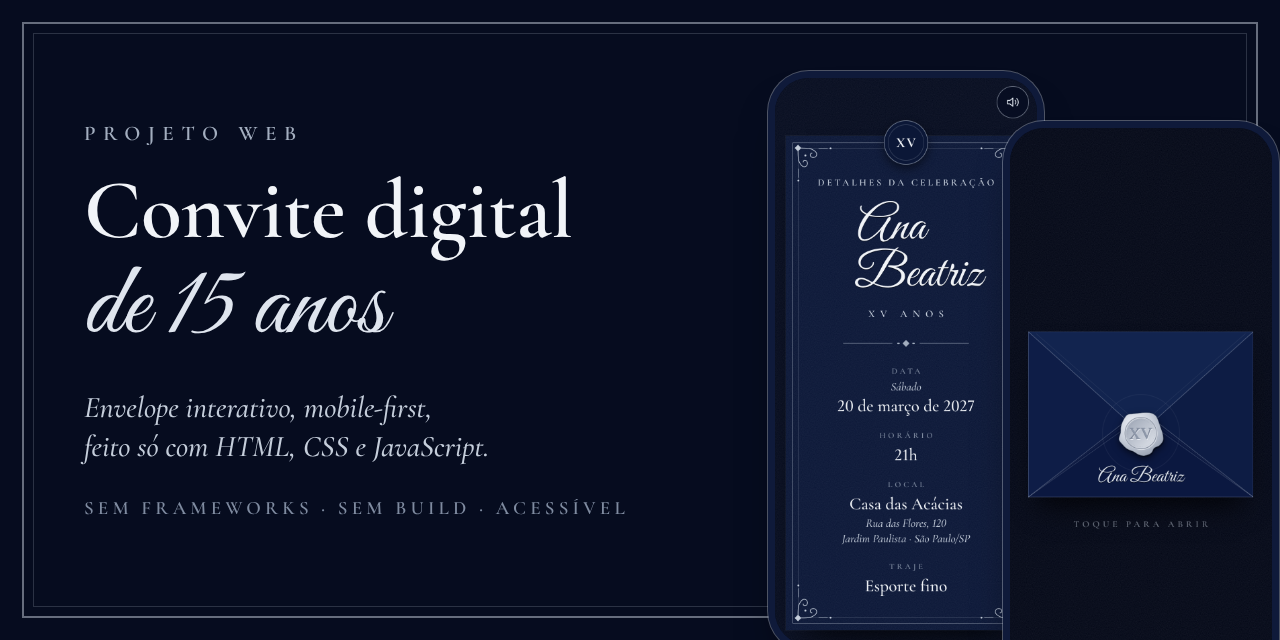
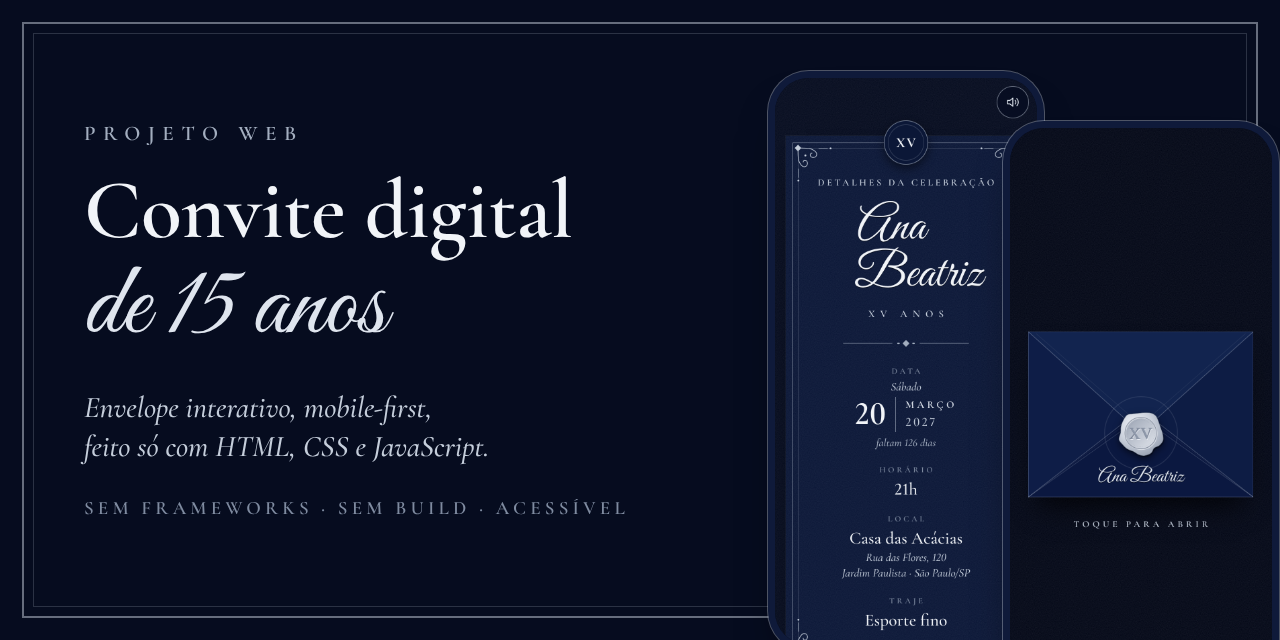
Documentação: README e imagens com Waze, nova data e contagem
Claude-Session: https://claude.ai/code/session_01HrQzDJ48b2GaZGgzArpSWo

Changed region(s): [[0.6562, 0.625, 0.75, 0.9375], [0.5938, 0.9375, 0.7812, 1.0]]

diff --git a/README.md b/README.md
@@ -31,9 +31,9 @@ Um convite pensado para ser **enviado por link no WhatsApp**. O convidado abre n
 
 - **Envelope animado em CSS 3D**: o lacre rachado cai em duas metades, a aba gira, o cartão sobe (~2 s).
 - **Confirmar presença** pelo WhatsApp (`wa.me`) com mensagem pronta, nome e, se permitido, quantidade de pessoas.
-- **Como chegar** (Google Maps) e **adicionar à agenda**: arquivo `.ics` com lembrete 1 dia antes e link do Google Agenda.
+- **Como chegar** pelo Google Maps ou pelo **Waze**, com botão de **copiar endereço**, e **adicionar à agenda**: arquivo `.ics` com lembrete 1 dia antes e link do Google Agenda.
 - **Sugestão de presentes** em grupos, **sugerir música** e **enviar recado**, ambos pelo WhatsApp.
-- **Manual do Convidado** e prazo de confirmação.
+- **Manual do Convidado** (com amostras das cores a evitar), prazo de confirmação e **contagem regressiva** discreta.
 - **Música de fundo** com botão de silenciar (começa só depois do toque, como exigem os navegadores).
 - **Tudo configurável** em um único objeto `CONFIG` no topo de [`assets/js/app.js`](assets/js/app.js).
 
@@ -45,6 +45,7 @@ Um convite pensado para ser **enviado por link no WhatsApp**. O convidado abre n
 | Lacre que quebra | Uma arte SVG usada em duas metades recortadas por um mesmo `clip-path` em zigue-zague; lascas criadas em JS com variáveis CSS (`--dx`, `--dy`, `--r`). |
 | Compatibilidade com iPhones antigos | Sem `aspect-ratio` nem *container queries*: proporção por "truque do padding" e medidas por uma variável CSS (`--env-w`). |
 | Agenda em qualquer fuso | `.ics` (RFC 5545) escrito à mão: horário em UTC, escape de vírgulas e quebras, dobra de linhas em 75 **bytes** UTF-8 sem cortar acentos, `VALARM` de 1 dia. |
+| Contagem certa em qualquer fuso | Os dias são contados entre a data de hoje **no fuso do evento** (UTC-3) e a data da festa, então um celular em outro fuso não erra o dia. Depois da festa, a linha vira um agradecimento. |
 | Mensagens do WhatsApp | Modelos com `{chaves}`; linhas cujo campo ficou vazio somem sozinhas. Trava contra toque duplo e link de reserva se o app não abrir. |
 | Teclado do celular | Janelas ajustadas por `visualViewport` (iOS e Android), campos com fonte ≥ 16 px (evita zoom do iOS) e `:active` habilitado no Safari do iPhone (truque do `touchstart`). |
 | Acessibilidade | Foco devolvido ao botão de origem, `Esc` fecha, `inert` no fundo, alvos ≥ 48 px, `prefers-reduced-motion`, rótulos e contraste. Lighthouse: **Acessibilidade 100 · Boas práticas 100**. |
@@ -85,6 +86,7 @@ const CONFIG = {
   local:  { nome: "Casa das Acácias", rua: "Rua das Flores, 120", bairro: "Jardim Paulista", cidade: "São Paulo/SP" },
   whatsapp: "11999990000",                   // DDD + número
   rsvp: { maxPessoas: 1, prazo: "2027-03-10" },   // 1 = convite individual
+  contagem: { mostrar: true, varios: "faltam {n} dias" },
   // presentes, manual, mensagens do WhatsApp, textos da interface...
 };
 ```
@@ -106,7 +108,7 @@ python3 -m http.server 8000
 
 ## Qualidade
 
-Verificado com Playwright (Chromium) em telas de 320 a 844 px: sem rolagem horizontal, alvos de toque ≥ 48 px, 31 verificações de fluxo (formulários, links do WhatsApp, `.ics`, janelas e tecla `Esc`) e casos de borda (política de segurança ativa, fontes bloqueadas, JavaScript desligado).
+Verificado com Playwright (Chromium) em telas de 320 a 844 px: sem rolagem horizontal, alvos de toque ≥ 48 px, 40 verificações de fluxo (formulários, links do WhatsApp e do Waze, copiar endereço, `.ics`, janelas e tecla `Esc`), a contagem regressiva com datas simuladas (inclui fuso e depois da festa) e casos de borda (política de segurança ativa, fontes bloqueadas, JavaScript desligado).
 
 **Limitações conhecidas:** testado em Chromium emulado, não em iPhone/Safari reais; o download do `.ics` pode variar em navegadores embutidos de apps (o link do Google Agenda serve de alternativa); a música é um *placeholder* original e o Google Fonts é a única dependência externa.
 
